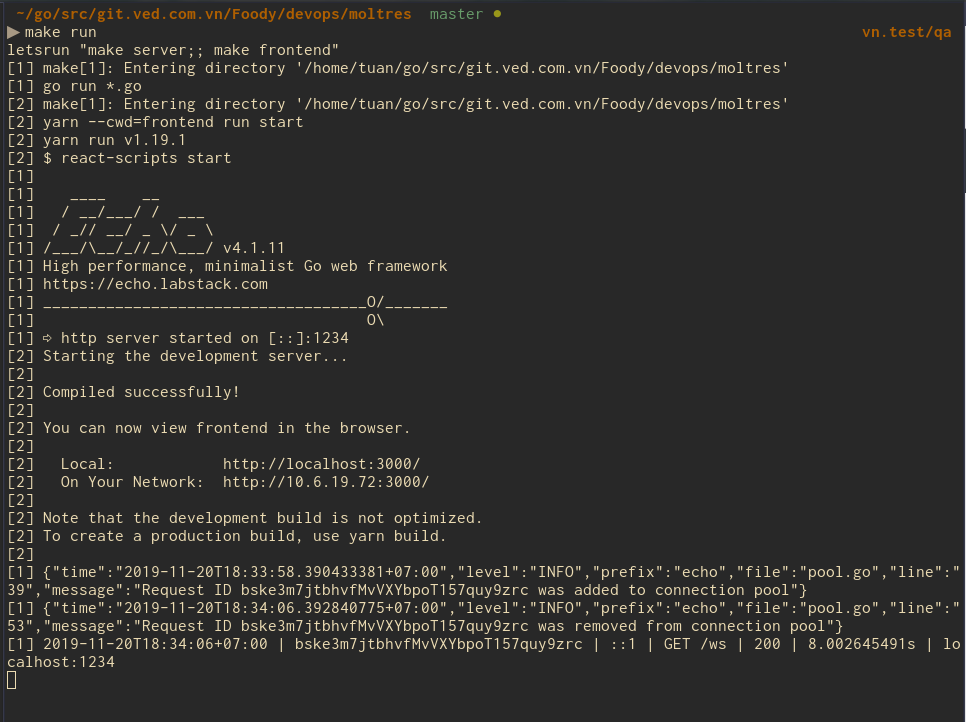
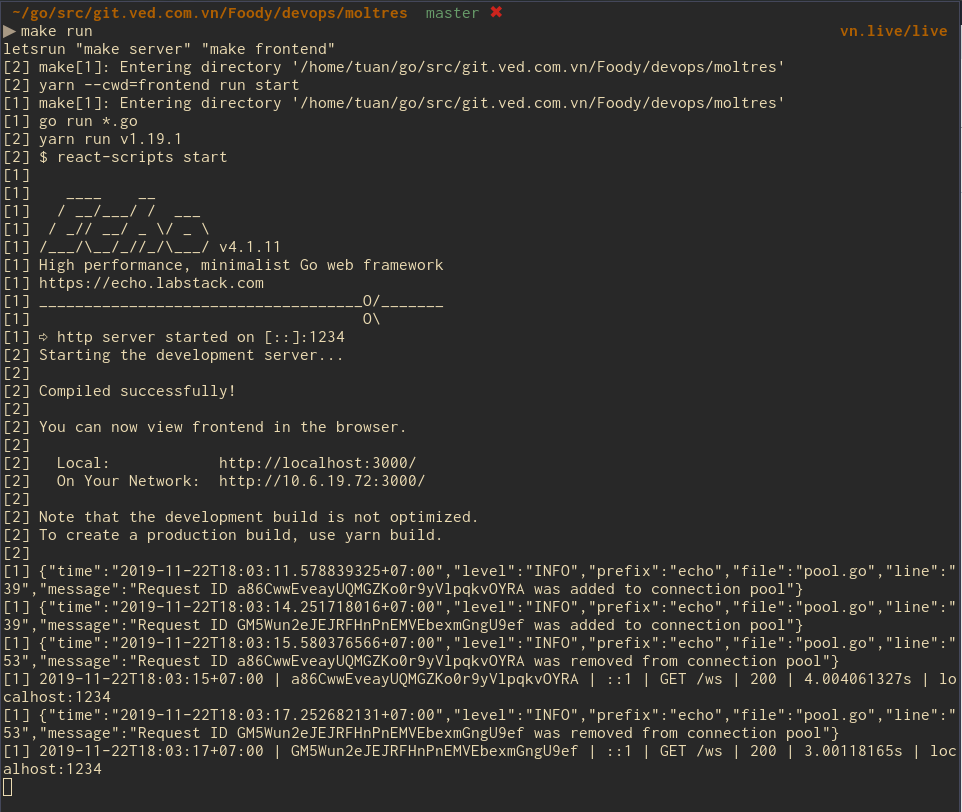
remove options

diff --git a/main.go b/main.go
@@ -11,14 +11,9 @@ import (
 	"sync"
 )
 
-var (
-	delimiter = flag.String("F", ";;", "Commands delimiter")
-)
-
 func usage() {
 	fmt.Printf("Usage: %s [OPTIONS] COMMANDS\n\n", os.Args[0])
 	fmt.Print("Background command runner and combine output into stdout\n\n")
-	fmt.Println("Options:")
 	flag.PrintDefaults()
 }
 
@@ -66,14 +61,12 @@ func main() {
 	flag.Usage = usage
 	flag.Parse()
 
-	args := flag.Args()
-	if len(args) < 1 {
+	cmds := flag.Args()
+	if len(cmds) < 1 {
 		fmt.Println("Invalid arguments. Missing commands")
 		flag.Usage()
 		os.Exit(1)
 	}
-
-	cmds := splitCommand(args[0], *delimiter)
 
 	var wg sync.WaitGroup
 	cmdList := []*command{}

diff --git a/README.md b/README.md
@@ -17,19 +17,15 @@ go install github.com/vanhtuan0409/letsrun
 ### Example
 
 ```
-letsrun "sleep 60;; sleep 60;; echo Hello"
+letsrun "sleep 10" "sleep 10" "echo Hello"
 ```
 
 ### Usage manual
 
 ```
-Usage: letsrun [OPTIONS] COMMANDS
+Usage: /tmp/go-build014803794/b001/exe/main [OPTIONS] COMMANDS
 
 Background command runner and combine output into stdout
-
-Options:
-  -F string
-    	Commands delimiter (default ";;")
 ```
 
 ### Screenshot
